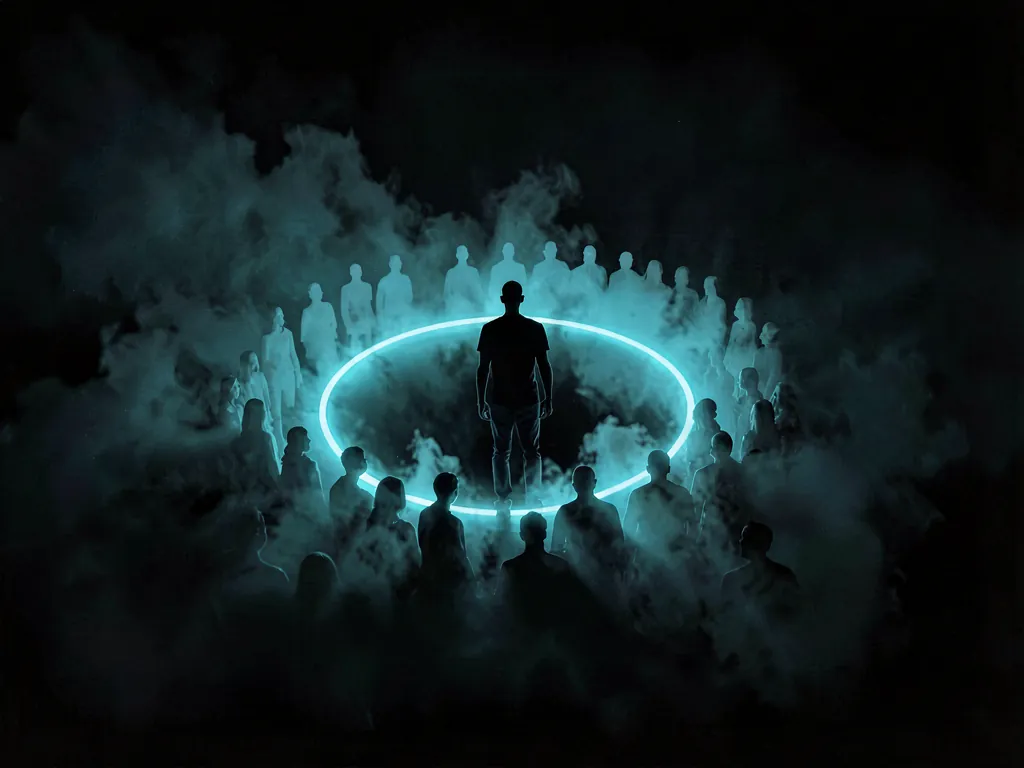
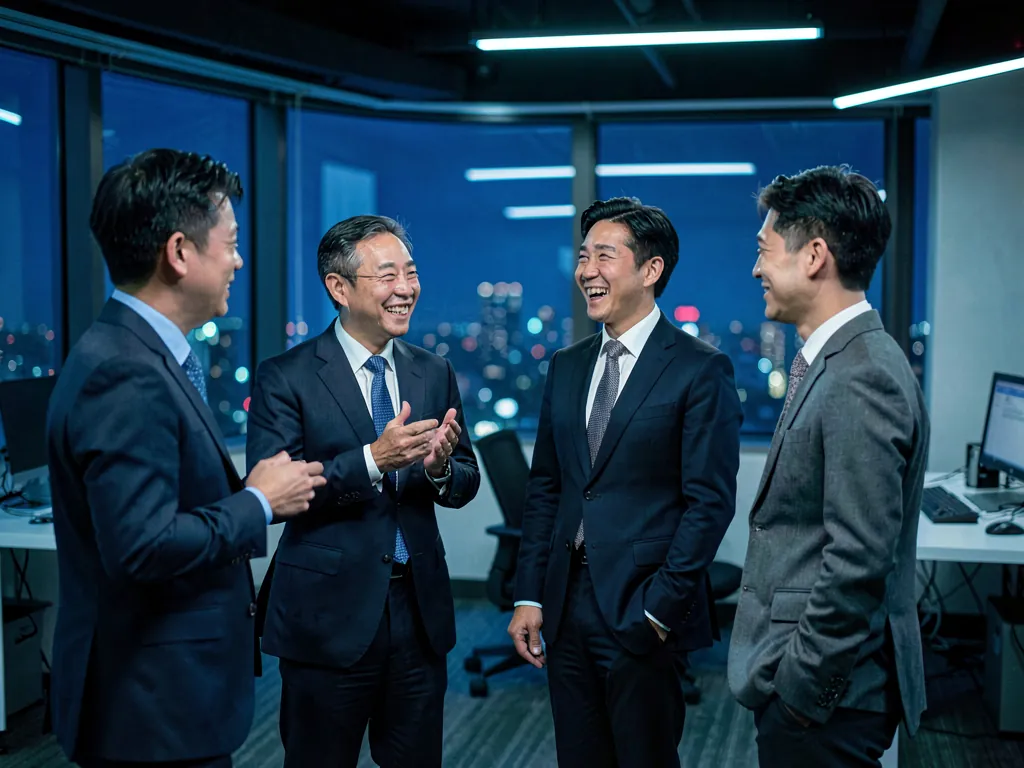
プラン対応表を詳細化・事例に経緯を追加・動画preload修正・アイコン追加・ロゴ流し

diff --git a/index.html b/index.html
@@ -194,13 +194,13 @@
     <p class="sec-label reveal">7 FUNCTIONS</p>
     <h2 class="sec-title reveal">入口から改善まで、採用フローを1周まるごと。</h2>
     <ol class="flow7" id="flow7">
-      <li class="f7 reveal" data-fn="01"><span class="f7-icon"></span><span class="f7-n num">01</span><em class="f7-step">要件定義・求人設計</em><b class="f7-name">自動応募要件の作成</b></li>
-      <li class="f7 reveal is-key" data-fn="02"><span class="f7-icon"></span><span class="f7-n num">02</span><em class="f7-step">母集団形成</em><b class="f7-name">AIスカウト</b></li>
-      <li class="f7 reveal" data-fn="03"><span class="f7-icon"></span><span class="f7-n num">03</span><em class="f7-step">一次スクリーニング</em><b class="f7-name">AI書類選考</b></li>
-      <li class="f7 reveal" data-fn="04"><span class="f7-icon"></span><span class="f7-n num">04</span><em class="f7-step">見極め</em><b class="f7-name">適性検査</b></li>
-      <li class="f7 reveal" data-fn="05"><span class="f7-icon"></span><span class="f7-n num">05</span><em class="f7-step">面接調整</em><b class="f7-name">AI日程調整</b></li>
-      <li class="f7 reveal" data-fn="06"><span class="f7-icon"></span><span class="f7-n num">06</span><em class="f7-step">面接・記録</em><b class="f7-name">AI面接文字起こし</b></li>
-      <li class="f7 reveal" data-fn="07"><span class="f7-icon"></span><span class="f7-n num">07</span><em class="f7-step">振り返り・改善</em><b class="f7-name">AI採用分析</b></li>
+      <li class="f7 reveal" data-fn="01"><span class="f7-icon"><svg viewBox="0 0 24 24" fill="none"><path d="M5 4h9l5 5v11a1 1 0 0 1-1 1H5a1 1 0 0 1-1-1V5a1 1 0 0 1 1-1Z" stroke="currentColor" stroke-width="1.4"/><path d="M14 4v5h5M7.5 13h9M7.5 16.5h6" stroke="currentColor" stroke-width="1.4" stroke-linecap="round"/></svg></span><span class="f7-n num">01</span><em class="f7-step">要件定義・求人設計</em><b class="f7-name">自動応募要件の作成</b></li>
+      <li class="f7 reveal is-key" data-fn="02"><span class="f7-icon"><svg viewBox="0 0 24 24" fill="none"><path d="M3 6.5h13v9H3z" stroke="currentColor" stroke-width="1.4"/><path d="M3 6.5 9.5 12 16 6.5" stroke="currentColor" stroke-width="1.4"/><path d="M18 15.5l3-3-3-3M21 12.5h-5" stroke="currentColor" stroke-width="1.4" stroke-linecap="round"/></svg></span><span class="f7-n num">02</span><em class="f7-step">母集団形成</em><b class="f7-name">AIスカウト</b></li>
+      <li class="f7 reveal" data-fn="03"><span class="f7-icon"><svg viewBox="0 0 24 24" fill="none"><path d="M6 3h8l4 4v14H6z" stroke="currentColor" stroke-width="1.4"/><path d="M14 3v4h4" stroke="currentColor" stroke-width="1.4"/><path d="m8.5 13.5 2.2 2.2 4.3-4.6" stroke="currentColor" stroke-width="1.8" stroke-linecap="round" stroke-linejoin="round"/></svg></span><span class="f7-n num">03</span><em class="f7-step">一次スクリーニング</em><b class="f7-name">AI書類選考</b></li>
+      <li class="f7 reveal" data-fn="04"><span class="f7-icon"><svg viewBox="0 0 24 24" fill="none"><path d="M12 3 21 9v6l-9 6-9-6V9z" stroke="currentColor" stroke-width="1.4" stroke-linejoin="round"/><path d="M12 7.5 16.5 11v3.5L12 17l-4.5-2.5V11z" stroke="currentColor" stroke-width="1.2"/></svg></span><span class="f7-n num">04</span><em class="f7-step">見極め</em><b class="f7-name">適性検査</b></li>
+      <li class="f7 reveal" data-fn="05"><span class="f7-icon"><svg viewBox="0 0 24 24" fill="none"><rect x="3.5" y="5" width="17" height="15" rx="1.5" stroke="currentColor" stroke-width="1.4"/><path d="M3.5 9.5h17M8 3v4M16 3v4" stroke="currentColor" stroke-width="1.4" stroke-linecap="round"/><rect x="13" y="13" width="4.5" height="3.5" rx=".6" fill="currentColor"/></svg></span><span class="f7-n num">05</span><em class="f7-step">面接調整</em><b class="f7-name">AI日程調整</b></li>
+      <li class="f7 reveal" data-fn="06"><span class="f7-icon"><svg viewBox="0 0 24 24" fill="none"><rect x="9" y="2.5" width="6" height="11" rx="3" stroke="currentColor" stroke-width="1.4"/><path d="M5.5 11.5a6.5 6.5 0 0 0 13 0M12 18v3.5M8.5 21.5h7" stroke="currentColor" stroke-width="1.4" stroke-linecap="round"/></svg></span><span class="f7-n num">06</span><em class="f7-step">面接・記録</em><b class="f7-name">AI面接文字起こし</b></li>
+      <li class="f7 reveal" data-fn="07"><span class="f7-icon"><svg viewBox="0 0 24 24" fill="none"><path d="M3.5 20.5V13M9 20.5V7M14.5 20.5v-9M20 20.5V4" stroke="currentColor" stroke-width="1.8" stroke-linecap="round"/></svg></span><span class="f7-n num">07</span><em class="f7-step">振り返り・改善</em><b class="f7-name">AI採用分析</b></li>
     </ol>
     <div class="flow7-loop reveal"><span>改善が、次の要件定義に返る</span></div>
     <div class="flow7-human reveal">
@@ -231,7 +231,7 @@
 <!-- 機能 01 -->
 <section class="slide fn-slide" id="fn-01" data-title="自動応募要件の作成">
   <div class="slide-in wrap fn-wrap">
-    <div class="fn-video"><video class="fn-v" data-fn="01" muted loop playsinline preload="none" poster="assets/motion/fn01.jpg"><source src="assets/motion/fn01.webm" type="video/webm"><source src="assets/motion/fn01.mp4" type="video/mp4"></video></div>
+    <div class="fn-video"><video class="fn-v" data-fn="01" muted loop playsinline preload="metadata" poster="assets/motion/fn01.jpg"><source src="assets/motion/fn01.webm" type="video/webm"><source src="assets/motion/fn01.mp4" type="video/mp4"></video></div>
     <div class="fn-text">
       <span class="fn-badge num">01 / 07</span>
       <p class="sec-label reveal">要件定義・求人設計</p>
@@ -245,7 +245,7 @@
 <!-- 機能 02 -->
 <section class="slide fn-slide is-key" id="fn-02" data-title="AIスカウト">
   <div class="slide-in wrap fn-wrap">
-    <div class="fn-video"><video class="fn-v" data-fn="02" muted loop playsinline preload="none" poster="assets/motion/fn02.jpg"><source src="assets/motion/fn02.webm" type="video/webm"><source src="assets/motion/fn02.mp4" type="video/mp4"></video></div>
+    <div class="fn-video"><video class="fn-v" data-fn="02" muted loop playsinline preload="metadata" poster="assets/motion/fn02.jpg"><source src="assets/motion/fn02.webm" type="video/webm"><source src="assets/motion/fn02.mp4" type="video/mp4"></video></div>
     <div class="fn-text">
       <span class="fn-badge num">02 / 07</span>
       <p class="sec-label reveal">母集団形成</p>
@@ -259,7 +259,7 @@
 <!-- 機能 03 -->
 <section class="slide fn-slide" id="fn-03" data-title="AI書類選考">
   <div class="slide-in wrap fn-wrap">
-    <div class="fn-video"><video class="fn-v" data-fn="03" muted loop playsinline preload="none" poster="assets/motion/fn03.jpg"><source src="assets/motion/fn03.webm" type="video/webm"><source src="assets/motion/fn03.mp4" type="video/mp4"></video></div>
+    <div class="fn-video"><video class="fn-v" data-fn="03" muted loop playsinline preload="metadata" poster="assets/motion/fn03.jpg"><source src="assets/motion/fn03.webm" type="video/webm"><source src="assets/motion/fn03.mp4" type="video/mp4"></video></div>
     <div class="fn-text">
       <span class="fn-badge num">03 / 07</span>
       <p class="sec-label reveal">一次スクリーニング</p>
@@ -273,7 +273,7 @@
 <!-- 機能 04 -->
 <section class="slide fn-slide" id="fn-04" data-title="適性検査">
   <div class="slide-in wrap fn-wrap">
-    <div class="fn-video"><video class="fn-v" data-fn="04" muted loop playsinline preload="none" poster="assets/motion/fn04.jpg"><source src="assets/motion/fn04.webm" type="video/webm"><source src="assets/motion/fn04.mp4" type="video/mp4"></video></div>
+    <div class="fn-video"><video class="fn-v" data-fn="04" muted loop playsinline preload="metadata" poster="assets/motion/fn04.jpg"><source src="assets/motion/fn04.webm" type="video/webm"><source src="assets/motion/fn04.mp4" type="video/mp4"></video></div>
     <div class="fn-text">
       <span class="fn-badge num">04 / 07</span>
       <p class="sec-label reveal">見極め</p>
@@ -287,7 +287,7 @@
 <!-- 機能 05 -->
 <section class="slide fn-slide" id="fn-05" data-title="AI日程調整（半自動）">
   <div class="slide-in wrap fn-wrap">
-    <div class="fn-video"><video class="fn-v" data-fn="05" muted loop playsinline preload="none" poster="assets/motion/fn05.jpg"><source src="assets/motion/fn05.webm" type="video/webm"><source src="assets/motion/fn05.mp4" type="video/mp4"></video></div>
+    <div class="fn-video"><video class="fn-v" data-fn="05" muted loop playsinline preload="metadata" poster="assets/motion/fn05.jpg"><source src="assets/motion/fn05.webm" type="video/webm"><source src="assets/motion/fn05.mp4" type="video/mp4"></video></div>
     <div class="fn-text">
       <span class="fn-badge num">05 / 07</span>
       <p class="sec-label reveal">面接調整</p>
@@ -301,7 +301,7 @@
 <!-- 機能 06 -->
 <section class="slide fn-slide" id="fn-06" data-title="AI面接文字起こし">
   <div class="slide-in wrap fn-wrap">
-    <div class="fn-video"><video class="fn-v" data-fn="06" muted loop playsinline preload="none" poster="assets/motion/fn06.jpg"><source src="assets/motion/fn06.webm" type="video/webm"><source src="assets/motion/fn06.mp4" type="video/mp4"></video></div>
+    <div class="fn-video"><video class="fn-v" data-fn="06" muted loop playsinline preload="metadata" poster="assets/motion/fn06.jpg"><source src="assets/motion/fn06.webm" type="video/webm"><source src="assets/motion/fn06.mp4" type="video/mp4"></video></div>
     <div class="fn-text">
       <span class="fn-badge num">06 / 07</span>
       <p class="sec-label reveal">面接・記録</p>
@@ -315,7 +315,7 @@
 <!-- 機能 07 -->
 <section class="slide fn-slide" id="fn-07" data-title="AI採用分析ツール">
   <div class="slide-in wrap fn-wrap">
-    <div class="fn-video"><video class="fn-v" data-fn="07" muted loop playsinline preload="none" poster="assets/motion/fn07.jpg"><source src="assets/motion/fn07.webm" type="video/webm"><source src="assets/motion/fn07.mp4" type="video/mp4"></video></div>
+    <div class="fn-video"><video class="fn-v" data-fn="07" muted loop playsinline preload="metadata" poster="assets/motion/fn07.jpg"><source src="assets/motion/fn07.webm" type="video/webm"><source src="assets/motion/fn07.mp4" type="video/mp4"></video></div>
     <div class="fn-text">
       <span class="fn-badge num">07 / 07</span>
       <p class="sec-label reveal">振り返り・改善</p>
@@ -341,7 +341,7 @@
       <div class="stat reveal"><div class="stat-v num"><span data-count="20">0</span><small>万件+</small></div><div class="stat-k">採用データ・検証</div></div>
       <div class="stat reveal"><div class="stat-v num"><span data-count="94">0</span><small>%</small></div><div class="stat-k">顧客満足度</div></div>
     </div>
-    <div class="logos reveal" aria-label="支援企業">
+    <div class="logos reveal is-marquee" aria-label="支援企業">
       <div class="logos-track">
         <span>PERSOL</span><span>GMO RESEARCH&amp;AI</span><span>UUUM</span><span>Leverages</span><span>kaonavi</span><span>IIJ</span><span>Spir</span><span>ROBOT PAYMENT</span><span>リーディングマーク</span><span>ウィルゲート</span>
         <span>PERSOL</span><span>GMO RESEARCH&amp;AI</span><span>UUUM</span><span>Leverages</span><span>kaonavi</span><span>IIJ</span><span>Spir</span><span>ROBOT PAYMENT</span><span>リーディングマーク</span><span>ウィルゲート</span>
@@ -377,39 +377,39 @@
   <div class="slide-in wrap">
     <p class="sec-label reveal">CASE</p>
     <h2 class="sec-title reveal">返信率が、<span class="hl">7〜9倍</span>になりました。</h2>
-    <p class="lead reveal">いずれもAIスカウトをご利用いただいた企業様の実績です。倍率はテンプレート送信（開封12%／返信0.3%）との比較です。</p>
     <div class="case-grid">
       <div class="case reveal">
-        <h3>SaaS企業A社</h3>
+        <h3>SaaS企業A社<i>営業職／従業員120名</i></h3>
         <div class="case-hero"><b class="num">8.0</b><span>倍</span></div>
-        <p class="case-hero-k">返信率</p>
-        <div class="case-ba">
-          <div class="cb"><span class="cb-l">テンプレート</span><span class="cb-bar" style="--w:4%"></span><span class="cb-v num">0.3%</span></div>
-          <div class="cb is-after"><span class="cb-l">A社</span><span class="cb-bar" style="--w:100%"></span><span class="cb-v num">2.4%</span></div>
-        </div>
-        <p class="case-sub">開封率も 12% → <b>38%</b>（3.2倍）</p>
+        <p class="case-hero-k">返信率 0.3% → 2.4%</p>
+        <dl class="case-why">
+          <dt>導入前</dt><dd>媒体のテンプレートを一斉送信。開封はされても返信がほぼ来ない状態。</dd>
+          <dt>変えたこと</dt><dd>職務経歴書から<b>担当プロダクトと売上規模</b>を抜き出し、その2点に触れた文面をAIが一人ひとり作成。</dd>
+          <dt>結果</dt><dd>開封率 12%→<b>38%</b>。返信率 <b>8.0倍</b>。</dd>
+        </dl>
       </div>
       <div class="case reveal is-key">
-        <h3>IT企業B社</h3>
+        <h3>IT企業B社<i>エンジニア職／従業員260名</i></h3>
         <div class="case-hero"><b class="num">9.0</b><span>倍</span></div>
-        <p class="case-hero-k">返信率</p>
-        <div class="case-ba">
-          <div class="cb"><span class="cb-l">テンプレート</span><span class="cb-bar" style="--w:4%"></span><span class="cb-v num">0.3%</span></div>
-          <div class="cb is-after"><span class="cb-l">B社</span><span class="cb-bar" style="--w:100%"></span><span class="cb-v num">2.7%</span></div>
-        </div>
-        <p class="case-sub">面談化率 <b>約2.8倍</b>／開封率 12% → <b>41%</b></p>
+        <p class="case-hero-k">返信率 0.3% → 2.7%</p>
+        <dl class="case-why">
+          <dt>導入前</dt><dd>競合が同じ候補者に大量送信。開封すらされない。</dd>
+          <dt>変えたこと</dt><dd><b>使用技術スタックと直近の担当プロジェクト</b>を引用し、自社のどの開発に近いかを冒頭2行で提示。</dd>
+          <dt>結果</dt><dd>返信率 <b>9.0倍</b>。返信からの<b>面談化率が約2.8倍</b>に。</dd>
+        </dl>
       </div>
       <div class="case reveal">
-        <h3>成長ベンチャーC社</h3>
+        <h3>成長ベンチャーC社<i>複数職種／従業員65名</i></h3>
         <div class="case-hero"><b class="num">7.0</b><span>倍</span></div>
-        <p class="case-hero-k">返信率</p>
-        <div class="case-ba">
-          <div class="cb"><span class="cb-l">テンプレート</span><span class="cb-bar" style="--w:4%"></span><span class="cb-v num">0.3%</span></div>
-          <div class="cb is-after"><span class="cb-l">C社</span><span class="cb-bar" style="--w:100%"></span><span class="cb-v num">2.1%</span></div>
-        </div>
-        <p class="case-sub">スカウト単価 <b>約40%削減</b>／開封率 12% → <b>35%</b></p>
+        <p class="case-hero-k">返信率 0.3% → 2.1%</p>
+        <dl class="case-why">
+          <dt>導入前</dt><dd>担当者1名が複数職種を兼任。作成が追いつかず、送信数自体が伸びない。</dd>
+          <dt>変えたこと</dt><dd>作成・送信を全自動化し、職種ごとに訴求を出し分け。<b>送信数を増やしても工数は増えない</b>状態に。</dd>
+          <dt>結果</dt><dd>返信率 <b>7.0倍</b>。<b>スカウト単価は約40%削減</b>。</dd>
+        </dl>
       </div>
     </div>
+    <p class="note reveal">※ 倍率はテンプレート送信（開封12%／返信0.3%）との比較です。</p>
   </div>
 </section>
 
@@ -418,53 +418,37 @@
   <div class="slide-in chdiv-inner"><span class="chdiv-n num">05</span><h2 class="chdiv-t">費用と費用対効果</h2></div>
 </section>
 
-<!-- 22 価格の問い -->
-<section class="slide sec-center sec-dark" id="price-q" data-title="費用は？">
-  <div class="slide-in wrap">
-    <h2 class="q-big reveal">「それで、費用は<br>いくらでしょうか。」</h2>
-    <p class="lead reveal">ここまでご覧いただき、今そう思われているかと思います。</p>
-  </div>
-</section>
-
 <!-- 23 価格 -->
 <section class="slide" id="price" data-title="料金プラン">
   <div class="slide-in wrap">
     <p class="sec-label reveal">PRICE</p>
     <h2 class="sec-title reveal">採用の量に合わせて、3プラン。</h2>
-    <div class="plans">
-      <div class="plan reveal">
-        <span class="plan-name">ライト</span>
-        <p class="plan-price num">3<small>万円／月</small></p>
-        <p class="plan-target">年1〜2名を採用される企業様<br>（従業員〜50名）</p>
-        <ul class="plan-list">
-          <li>AIスカウト（月<span class="est">500</span>通まで）</li>
-          <li>AI日程調整</li>
-          <li>自動応募要件の作成</li>
-        </ul>
-      </div>
-      <div class="plan reveal is-key">
-        <span class="plan-badge">推奨</span>
-        <span class="plan-name">スタンダード</span>
-        <p class="plan-price num">10<small>万円／月</small></p>
-        <p class="plan-target">年3〜5名を採用される企業様<br>（従業員50〜300名）</p>
-        <ul class="plan-list">
-          <li><b>7機能すべて</b></li>
-          <li>AIスカウト 送信数の上限なし</li>
-          <li>AI書類選考／適性検査／面接文字起こし／採用分析</li>
-        </ul>
-      </div>
-      <div class="plan reveal">
-        <span class="plan-name">フル</span>
-        <p class="plan-price num">30<small>万円／月</small></p>
-        <p class="plan-target">年10名以上を採用される企業様<br>（従業員300名〜）</p>
-        <ul class="plan-list">
-          <li>7機能すべて</li>
-          <li>複数職種・複数媒体の同時運用</li>
-          <li>専任担当による運用の伴走</li>
-        </ul>
-      </div>
+    <div class="pm-wrap reveal">
+      <table class="pm">
+        <thead>
+          <tr>
+            <th class="pm-fn">できること</th>
+            <th><span class="pm-name">ライト</span><span class="pm-price num">3<small>万円／月</small></span><span class="pm-target">年1〜2名</span></th>
+            <th class="is-key"><span class="pm-badge">推奨</span><span class="pm-name">スタンダード</span><span class="pm-price num">10<small>万円／月</small></span><span class="pm-target">年3〜5名</span></th>
+            <th><span class="pm-name">フル</span><span class="pm-price num">30<small>万円／月</small></span><span class="pm-target">年10名以上</span></th>
+          </tr>
+        </thead>
+        <tbody>
+          <tr><td class="pm-fn">AIスカウト<i>送信数</i></td><td class="num">月500通</td><td class="is-key num">上限なし</td><td class="num">上限なし</td></tr>
+          <tr><td class="pm-fn">自動応募要件の作成</td><td class="ok">●</td><td class="is-key ok">●</td><td class="ok">●</td></tr>
+          <tr><td class="pm-fn">AI日程調整（半自動）</td><td class="ok">●</td><td class="is-key ok">●</td><td class="ok">●</td></tr>
+          <tr><td class="pm-fn">AI書類選考</td><td class="no">—</td><td class="is-key ok">●</td><td class="ok">●</td></tr>
+          <tr><td class="pm-fn">適性検査</td><td class="no">—</td><td class="is-key ok">●</td><td class="ok">●</td></tr>
+          <tr><td class="pm-fn">AI面接文字起こし</td><td class="no">—</td><td class="is-key ok">●</td><td class="ok">●</td></tr>
+          <tr><td class="pm-fn">AI採用分析</td><td class="no">—</td><td class="is-key ok">●</td><td class="ok">●</td></tr>
+          <tr><td class="pm-fn">同時に回せる職種</td><td class="num">1職種</td><td class="is-key num">3職種</td><td class="num">上限なし</td></tr>
+          <tr><td class="pm-fn">接続できる媒体</td><td class="num">1媒体</td><td class="is-key num">3媒体</td><td class="num">上限なし</td></tr>
+          <tr><td class="pm-fn">初期設定</td><td>当社が実施</td><td class="is-key">当社が実施</td><td class="is-key">要件設計から伴走</td></tr>
+          <tr><td class="pm-fn">運用サポート</td><td>メール</td><td class="is-key">メール・チャット</td><td class="is-key">専任担当が伴走</td></tr>
+        </tbody>
+      </table>
     </div>
-    <p class="note reveal wip">※ 送信上限・機能の内訳は調整中です。初期費用・最低契約期間も別途ご案内します。</p>
+    <p class="note reveal wip">※ 送信上限・職種数は調整中です。初期費用・最低契約期間は別途ご案内します。</p>
   </div>
 </section>
 

diff --git a/css/deck.css b/css/deck.css
@@ -1057,3 +1057,50 @@ body:not(.is-preview) .wip, body:not(.is-preview) .preview-badge{ display:none; 
   .sb-seg i{ display:none; }
   .sb-seg b{ font-size:.7rem; }
 }
+
+/* ---------- 29. 指摘対応まとめ ---------- */
+/* 7機能フローのアイコン */
+.f7-icon{ display:flex; align-items:center; justify-content:center; color:var(--accent); padding:9px; }
+.f7-icon svg{ width:100%; height:100%; }
+.f7.is-key .f7-icon{ background:var(--acc-10); border-color:var(--acc-60); }
+
+/* 実績ロゴを流す */
+.logos.is-marquee{ overflow:hidden; margin-top:var(--sp-5); mask-image:linear-gradient(90deg,transparent,#000 8%,#000 92%,transparent); }
+.logos.is-marquee .logos-track{
+  display:flex !important; grid-template-columns:none !important;
+  gap:var(--sp-7) !important; width:max-content;
+  animation:nx-marquee 34s linear infinite !important;
+}
+.logos.is-marquee .logos-track span{ display:block !important; white-space:nowrap; font-size:.92rem; opacity:.55; }
+@keyframes nx-marquee{ from{transform:translateX(0)} to{transform:translateX(-50%)} }
+.logos.is-marquee:hover .logos-track{ animation-play-state:paused !important; }
+
+/* ---------- 30. プラン対応表 ---------- */
+.pm-wrap{ width:100%; overflow-x:auto; margin:var(--sp-4) 0 var(--sp-2); }
+.pm{ width:100%; border-collapse:collapse; font-size:.85rem; }
+.pm th, .pm td{ padding:9px var(--sp-2); text-align:center; border-bottom:1px solid var(--line); }
+.pm thead th{ vertical-align:bottom; padding-bottom:var(--sp-3); border-bottom:1px solid var(--line); position:relative; }
+.pm th.is-key, .pm td.is-key{ background:var(--acc-04); }
+.pm thead th.is-key{ background:var(--surface-2); border-radius:6px 6px 0 0; }
+.pm-fn{ text-align:left !important; color:var(--ink-dim); font-weight:400; white-space:nowrap; }
+.pm-fn i{ display:block; font-style:normal; font-size:.68rem; opacity:.7; }
+.pm-name{ display:block; font-size:.72rem; color:var(--ink-dim); letter-spacing:.06em; }
+.pm-price{ display:block; font-size:1.9rem; font-weight:700; line-height:1.2; margin:2px 0; }
+.pm thead .is-key .pm-price{ color:var(--accent); }
+.pm-price small{ font-size:.32em; color:var(--ink-dim); margin-left:3px; font-weight:400; }
+.pm-target{ display:block; font-size:.68rem; color:var(--ink-dim); }
+.pm-badge{ position:absolute; top:-10px; left:50%; transform:translateX(-50%); font-size:.62rem; background:var(--accent); color:#04222B; padding:2px 10px; border-radius:100px; font-weight:700; }
+.pm .ok{ color:var(--accent); font-size:1rem; }
+.pm .no{ color:rgba(148,163,180,.35); }
+.pm tbody tr:hover td{ background:rgba(255,255,255,.02); }
+.pm tbody tr:hover td.is-key{ background:var(--acc-10); }
+
+/* ---------- 31. 事例：なぜそうなったか ---------- */
+.case-why{ margin:var(--sp-3) 0 0; text-align:left; }
+.case-why dt{ font-size:.66rem; letter-spacing:.08em; color:var(--ink-dim); margin-top:10px; }
+.case-why dt:first-child{ margin-top:0; }
+.case-why dd{ margin:3px 0 0; font-size:.78rem; line-height:1.7; color:var(--ink-dim); }
+.case-why dd b{ color:var(--ink); font-weight:700; }
+.case h3 i{ display:block; font-style:normal; font-size:.68rem; opacity:.7; margin-top:3px; }
+.case-hero-k{ font-size:.72rem; color:var(--ink-dim); margin:2px 0 var(--sp-2); }
+@media (max-width:900px){ .pm{ font-size:.75rem; } .pm-price{ font-size:1.4rem; } }
